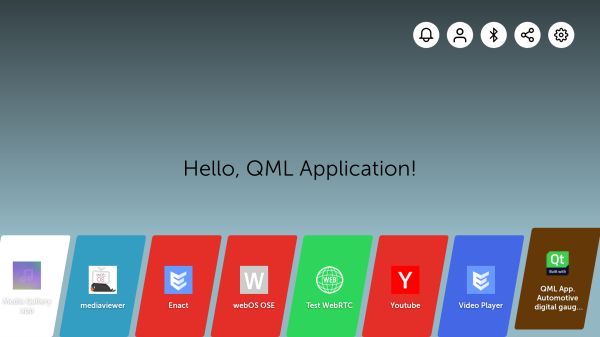
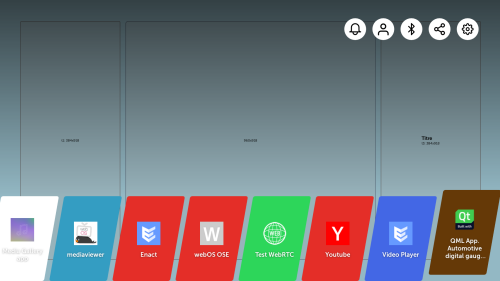
Continue QML layout learning

diff --git a/main.qml b/main.qml
@@ -29,50 +29,76 @@ WebOSWindow {
     color: "lightblue"
     displayAffinity: params["displayAffinity"]
 
-    Text {
-        id: mainText
+    Row {
         anchors.centerIn: parent
-        font.family: "Helvetica"
-        font.pointSize: 50
-        text: "Hello, QML Application!"
-    }
+        spacing: 20
 
-    property var launchParams: params
-    onLaunchParamsChanged: {
-        pmLog.info("LAUNCH_PARAMS", {"params": launchParams})
-    }
+        Rectangle {
+            id: rect1
+            width: root.width * 0.20
+            height: root.height * 0.85
+            color: "#45c0c0c0"
+            border.color: "gray"
+            border.width: 2
+            radius: 5
 
-    Service {
-        id: systemService
-        appId: "com.example.app.qml"
-
-        function getTime() {
-            call("luna://com.webos.service.systemservice","/clock/getTime","{}")
+            Text {
+                id: text1
+                anchors.centerIn: parent
+                text: "t1: " + parent.width + 'x' + parent.height
+            }
         }
 
-        onResponse: {
-            var jsonObject = JSON.parse(payload);
-            pmLog.info("GETTIME", {"utc": jsonObject.utc});
-            mainText.text = "UTC : " + jsonObject.utc
+        Rectangle {
+            id: rect2
+            width: root.width * 0.50
+            height: root.height * 0.85
+            color: "#45c0c0c0"
+            border.color: "slategrey"
+            border.width: 2
+            radius: 10
+
+            Text {
+                id: text2
+                anchors.centerIn: parent
+                text: parent.width + 'x' + parent.height
+            }
         }
 
-        onError: {
-            var jsonObject = JSON.parse(payload);
-            pmLog.error("GETTIME", {"error": jsonObject});
-        }
+        Rectangle {
+            id: rect3
+            width: root.width * 0.20
+            height: root.height * 0.85
+            color: "#45c0c0c0"
+            border.color: "gray"
+            border.width: 2
+            radius: 5
+
+            Text {
+                id: text3
+                anchors.centerIn: parent
+                text: "<h2>Titre</h2>t3: " + parent.width + 'x' + parent.height
+            }
+        }        
     }
 
     MouseArea {
         anchors.fill: parent
-        onClicked: systemService.getTime()
-    }
+        
+        /*
+            drag.target: rect
+        */
+        drag.target: parent
+        drag.axis: Drag.XAxis
+        drag.minimumX: -50
+        drag.maximumX: 50
+        drag.filterChildren: true
 
-    onWindowStateChanged: {
-        pmLog.info("WINDOW_CHANGED", {"status": windowState})
-    }
-
-    PmLog {
-        id: pmLog
-        context: "QMLApp"
+        onClicked: {
+            let temp = text1.text
+            text1.text = text2.text
+            text2.text = text3.text
+            text3.text = temp
+        }
     }
 }

diff --git a/README.md b/README.md
@@ -14,18 +14,21 @@ These instructions will get you a copy of the project up and running on your loc
 
 Below are the tools and libraries (and their minimum versions) required to build sample program:
 
-- qmake (??)
+- [qmake](https://doc.qt.io/qt-5/qmake-manual.html) (??)
 
 ### Prerequisites
 
 Things you need to install the project :
 
-- [webOS CLI]()
-- ["webOS device"]()
+- webOS CLI, [using npm](https://www.webosose.org/docs/tools/sdk/cli/cli-user-guide/#installing-cli) or [minimal LG installer](https://webostv.developer.lge.com/sdk/installation/download-installer/)
+- a target device running webOS, it could be :
+	- the [official Emulator](https://webostv.developer.lge.com/sdk/tools/emulator/introduction-emulator/#InstallingEmul),
+	- a [Rapsberry Pi](https://www.webosose.org/docs/guides/getting-started/hello-webos-ose/#real-device), or
+	- a [virtual machine](https://www.webosose.org/docs/tools/sdk/emulator/virtualbox-emulator/emulator-user-guide/#setting-up-the-virtual-machine-in-virtualbox)
 
-### Running
+## Running
 
-Here are some instructions on how to get the development env running.
+> Here are some instructions on how to get the development env running, **if you are not familiar with CLI**, the next actions can be done with [official IDE](https://webostv.developer.lge.com/sdk/tools/ide/), [VSCode extension](https://webostv.developer.lge.com/sdk/vs-code-extension/intro-vscode/) or [SublimeText extension](https://webostv.developer.lge.com/sdk/tools/sublime-text-plugin/).
 
 First, clone this repository with the following command :
 
@@ -35,18 +38,35 @@ Then, package the app as an IPK file using :
 
 	$ ares-package ./cluster
 
-This should generate a package (IPK file). The created _com.github.adepreis.cluster_<...>.ipk_ file has now to be installed on your targeted device thanks to the following command :
+This should generate a package (IPK file). The created _com.github.adepreis.cluster\_<...>.ipk_ file has now to be installed on your targeted device thanks to the following command :
 
 	$ ares-install -d <DEVICE_NAME> com.github.adepreis.cluster_<...>.ipk
 
 with _DEVICE_NAME_ your own testing device (see `ares-setup-device` command).
 
-Finally, "for running app on device", ...
+Finally, run the app on device using :
 
 	$ ares-launch -d <DEVICE_NAME> com.github.adepreis.cluster
+
+> **Notes:**
+> 
+> - You can stop the app by adding a `--close` parameter to the same "launch command",
+> - You can remove the app from the target by running the "install command" with `-r` parameter.
+
+<!--
 
 ---
 
 ### How it works
 
 ...
+
+-->
+
+---
+
+### Documentation / Useful links
+
+- [Qt official documentation](https://doc.qt.io/qt-5.12/qtquick-index.html)
+- [webOS OSE documentation](https://www.webosose.org/docs/home/)
+- [Inspired coding style](https://github.com/Furkanzmc/QML-Coding-Guide#cs-4-animations)
